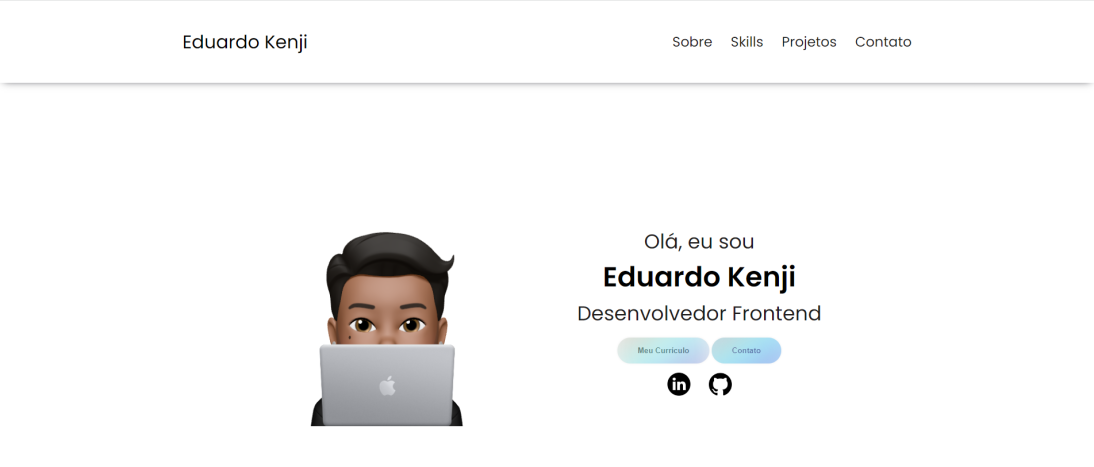
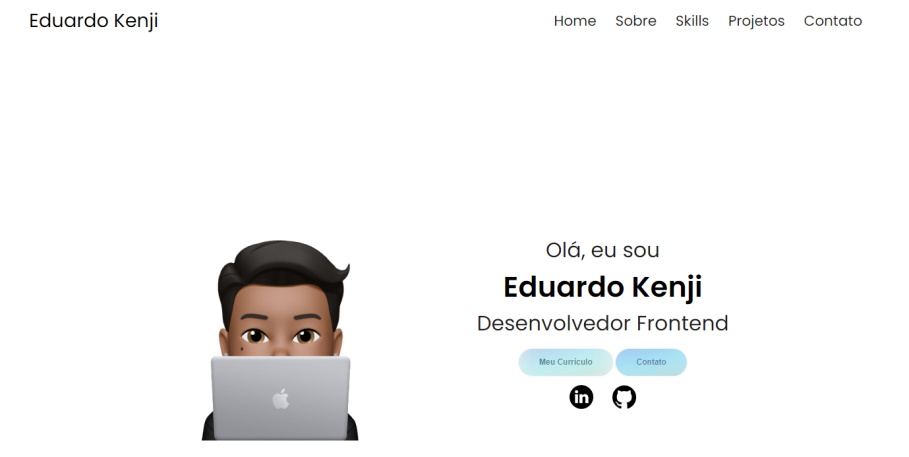
adicao de mediaqueries e mudancas no stylecss

diff --git a/mediaqueries.css b/mediaqueries.css
@@ -1,0 +1,107 @@
+@media screen and (max-width: 1400px) {
+    #profile {
+      height: 83vh;
+      margin-bottom: 6rem;
+    }
+    .about-containers {
+      flex-wrap: wrap;
+    }
+  }
+  
+  @media screen and (max-width: 1200px) {
+    #desktop-nav {
+      display: none;
+    }
+    #icone-nav {
+      display: flex;
+    }
+    #experience,
+    .experience-details-container {
+      margin-top: 2rem;
+    }
+    #profile,
+    .section-container {
+      display: block;
+    }
+    .arrow {
+      display: none;
+    }
+    section,
+    .section-container {
+      height: fit-content;
+    }
+    section {
+      margin: 0 5%;
+    }
+    .section__pic-container {
+      width: 275px;
+      height: 275px;
+      margin: 0 auto 2rem;
+    }
+    .about-containers {
+      margin-top: 0;
+    }  
+    .image-project img {
+        max-width: 100%;
+        height: auto;
+      }
+
+    #contact{
+        margin-top: 7vh;
+    }
+  }
+  
+  @media screen and (max-width: 600px) {
+    #contact,
+    footer {
+      height: 40vh;
+    }
+    #profile {
+      height: 83vh;
+      margin-bottom: 0;
+    }
+    article {
+      font-size: 1rem;
+    }
+    footer nav {
+      height: fit-content;
+      margin-bottom: 2rem;
+    }
+    .about-containers,
+    .contact-info-upper-container,
+    .btn-container {
+      flex-wrap: wrap;
+    }
+    .contact-info-container {
+      margin: .5;
+    }
+    .contact-info-container p,
+    .nav-links li a {
+      font-size: 1rem;
+    }
+    .experience-sub-title {
+      font-size: 1.25rem;
+    }
+    .logo {
+      font-size: 1.5rem;
+    }
+    .nav-links {
+      flex-direction: column;
+      gap: 0.5rem;
+      text-align: center;
+    }
+    .section__pic-container {
+      width: auto;
+      height: 46vw;
+      justify-content: center;
+    }
+    .section__text__p2 {
+      font-size: 1.25rem;
+    }
+    .title {
+      font-size: 2rem;
+    }
+    .text-container {
+      text-align: justify;
+    }
+  }

diff --git a/index.html b/index.html
@@ -4,6 +4,7 @@
     <meta charset="UTF-8">
     <meta name="viewport" content="width=device-width, initial-scale=1.0">
     <link rel="stylesheet" href="style.css">
+    <link rel="stylesheet" href="mediaqueries.css">
     <link rel="icon" type="imagem/png" href="/assets/emoji/rosto.PNG">
     <title>Eduardo Kenji</title>
 </head>
@@ -29,10 +30,11 @@
                 <span></span>
             </div>
             <div class="menu-links">
-                <li><a href="Sobre" onclick="toggleMenu()">Sobre</a></li>
-                <li><a href="Skills" onclick="toggleMenu()">Skills</a></li>
-                <li><a href="Projetos" onclick="toggleMenu()">Projetos</a></li>
-                <li><a href="Contato" onclick="toggleMenu()">Contato</a></li>
+                <li><a href="#desktop-nav" onclick="toggleMenu()">Home</a></li>
+                <li><a href="#about" onclick="toggleMenu()">Sobre</a></li>
+                <li><a href="#experience" onclick="toggleMenu()">Skills</a></li>
+                <li><a href="#projects" onclick="toggleMenu()">Projetos</a></li>
+                <li><a href="#contact" onclick="toggleMenu()">Contato</a></li>
             </div>
         </div>
     </nav>

diff --git a/style.css b/style.css
@@ -386,6 +386,15 @@ article .icon{
     position: relative;
 }
 
+.image-project{
+    box-shadow: 1px 1px 5px rgba(39, 39, 39, 0.4);
+}
+
+.display-image{
+    cursor: default;
+}
+
+
 /*Sessao de contato*/
 
 #contact{
@@ -431,15 +440,4 @@ article .icon{
 
 footer{
     height: 15vh;
-}
-
-/*media queries*/
-
-@media screen and (max-width: 1200px){
-    #desktop-nav{
-        display: none;
-    }
-    #icone-nav{
-        display: flex;
-    }
 }
